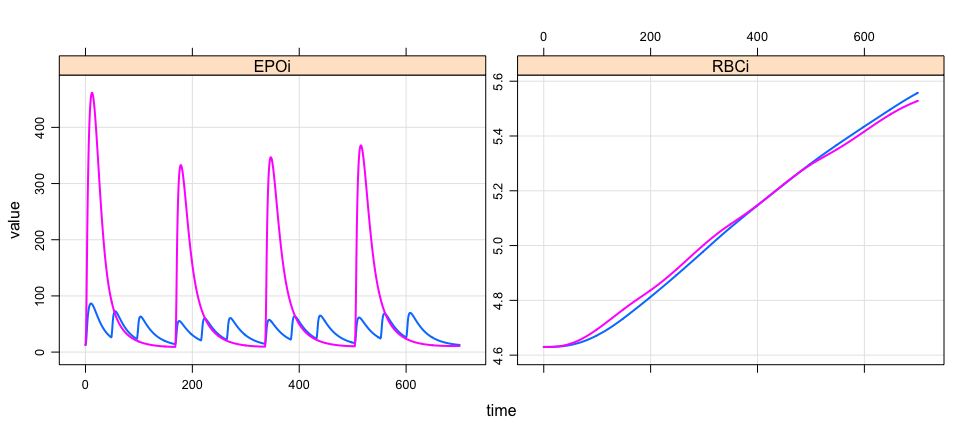
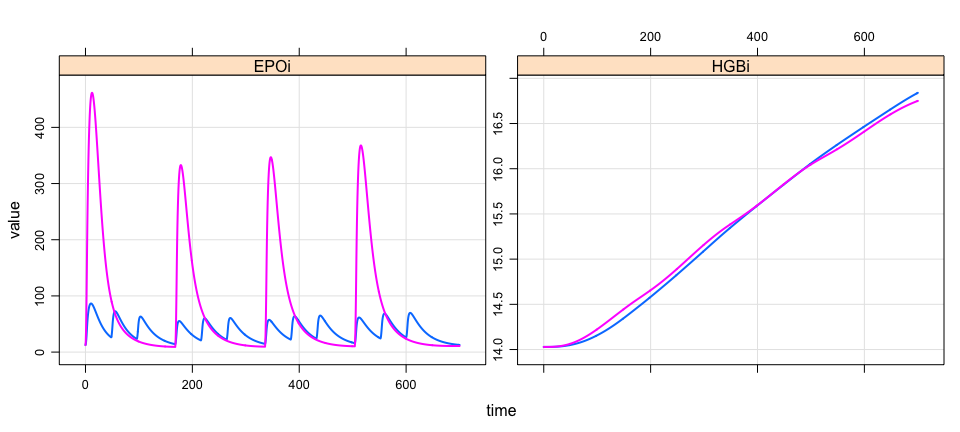
axis labels

diff --git a/README.md b/README.md
@@ -66,24 +66,27 @@ EPO PK/PD model ([Yan et al.](#epo)) \[[code](content/model/epo.cpp)\]
 
 ### QW dosing is equally effective as TIW dosing for SC but not IV administration
 
-SC dosing
+-   `EPOi` = epo concentration (mIU/mL)
+-   `HGBi` = hemoglobin (g/dL)
+
+**SC dosing**
 
     tiw <- ev_days(ev(amt=7800,ID=1,rate=-2), days="m,w,f", addl=3)
-    qd <- filter(tiw, time==0) %>% mutate(amt=40000,ID=2)
+    qw <- filter(tiw, time==0) %>% mutate(amt=40000,ID=2)
 
-    data_sc <- bind_rows(tiw,qd)
+    data_sc <- bind_rows(tiw,qw)
 
     mod %>% zero_re %>% mrgsim(data=data_sc, end=700, delta=0.5) %>% 
-      plot(EPOi+RBCi~time)
+      plot(EPOi+HGBi~time)
 
 <img src="content/img/README-unnamed-chunk-4-1.png" style="display: block; margin: auto;" />
 
-IV dosing
+**IV dosing**
 
     data_iv <- mutate(data_sc, rate=0, cmt=2)
 
     mod %>% zero_re %>% mrgsim(data=data_iv, end=700, delta=0.5) %>% 
-      plot(EPOi+RBCi~time)
+      plot(EPOi+HGBi~time)
 
 <img src="content/img/README-unnamed-chunk-6-1.png" style="display: block; margin: auto;" />
 
